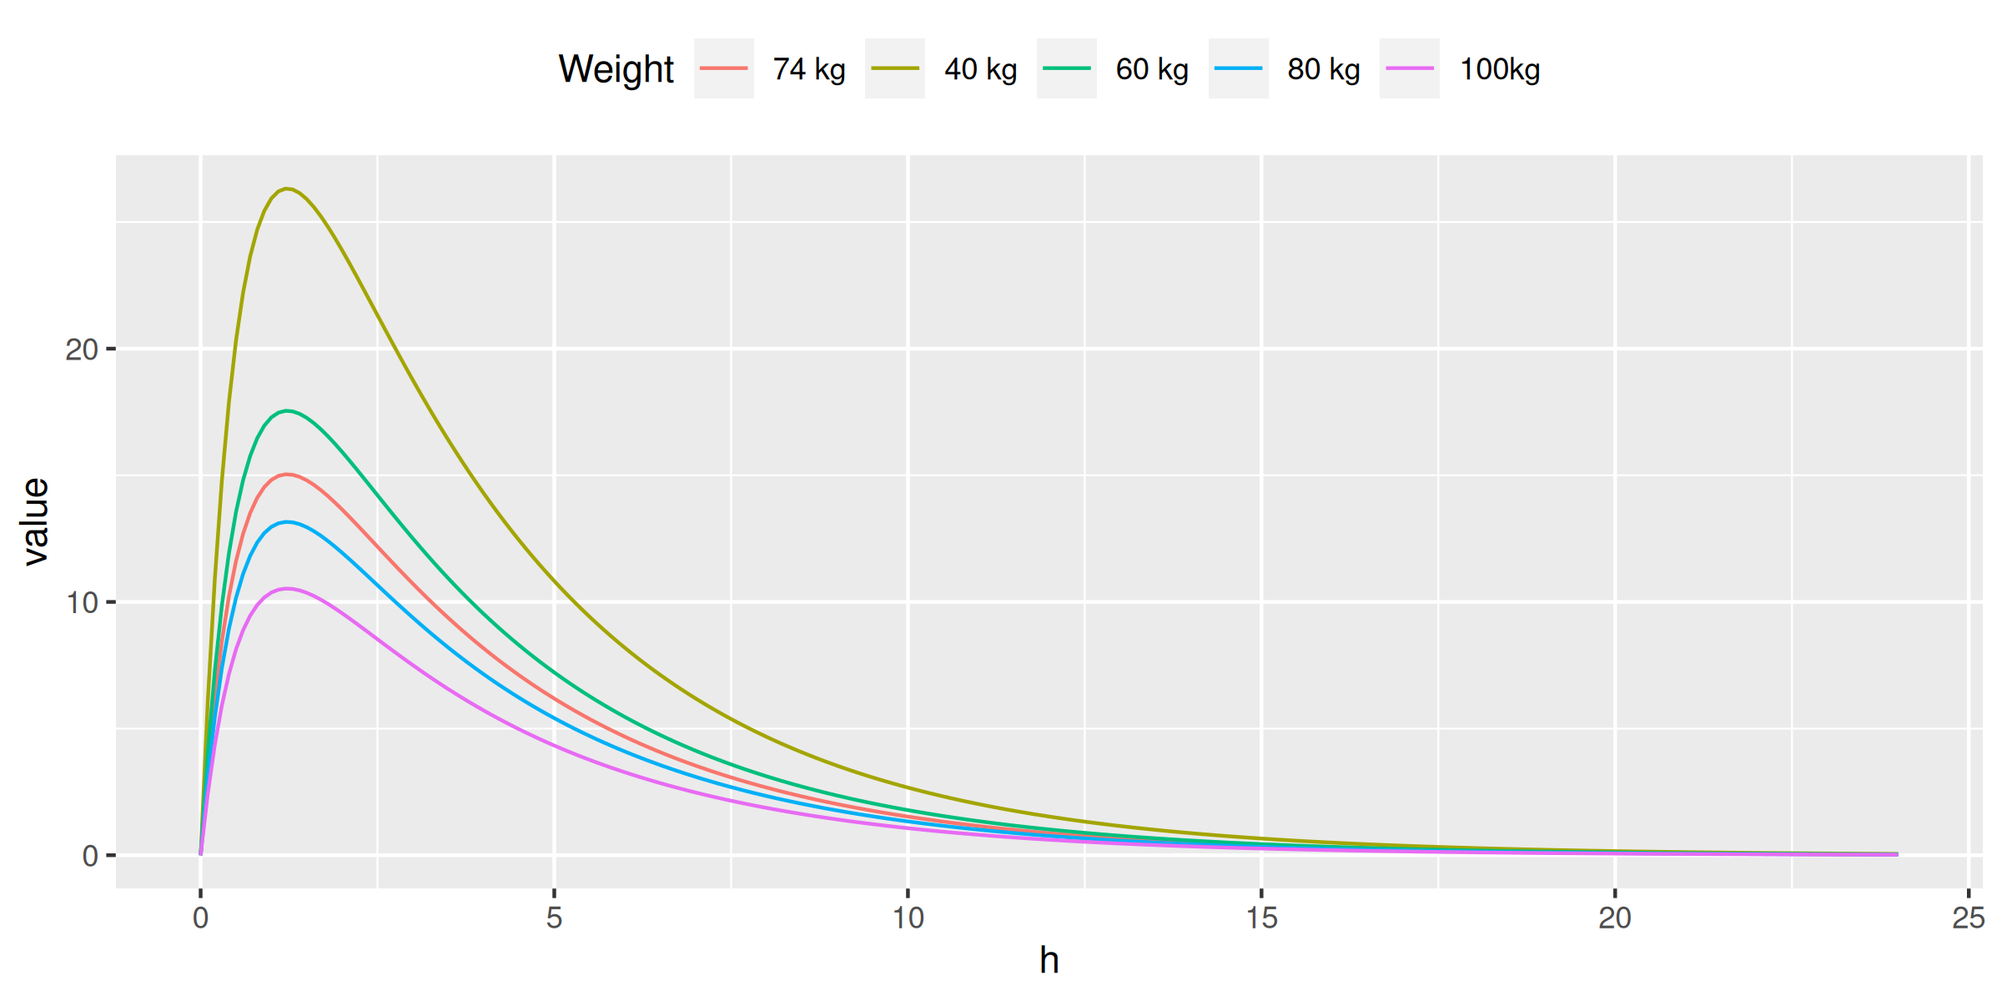
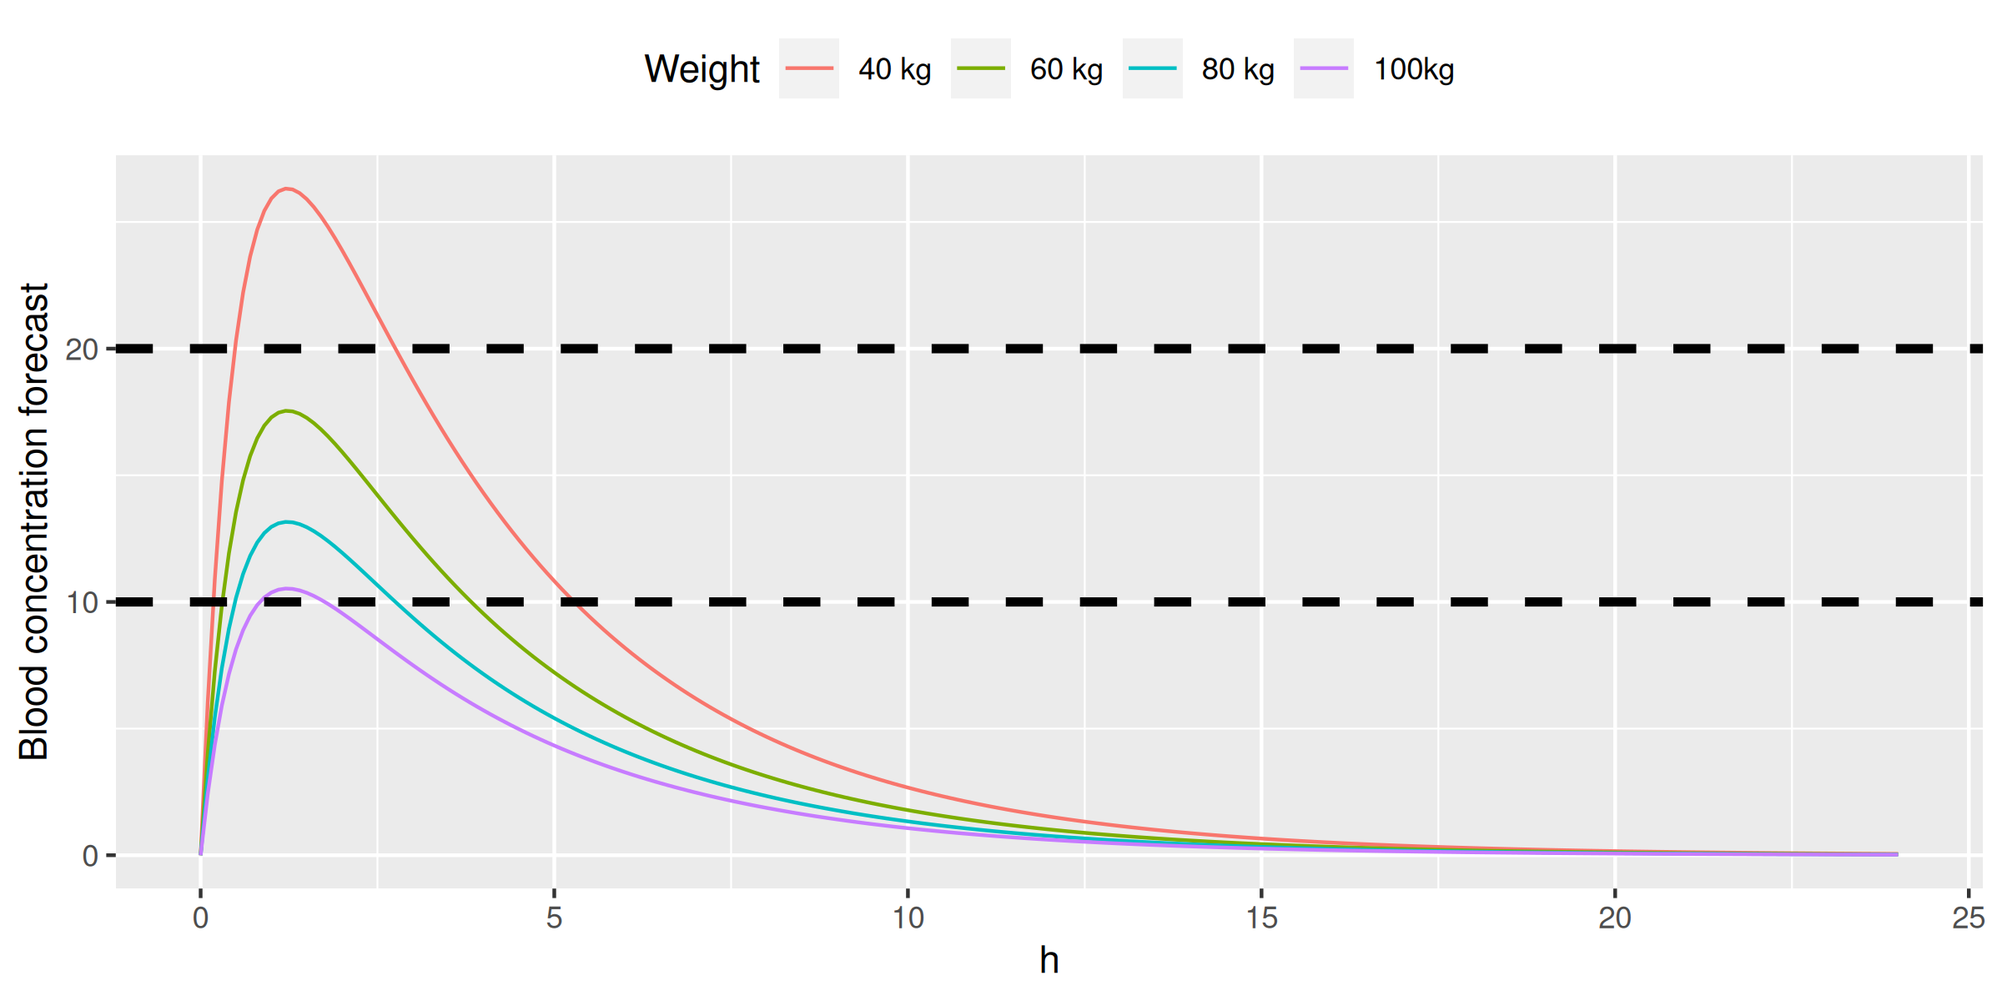
budapest ml 2023 updates

diff --git a/slides/budapestml2023-personalized-drug-doses-via-rx-studio/index.html b/slides/budapestml2023-personalized-drug-doses-via-rx-studio/index.html
@@ -544,6 +544,12 @@ Gergely Daróczi
 <h3 class="author" style="color:#333;padding-top:5%;font-size:1.1em;text-align: right !important; margin-right: -5%;padding-top: 0px;font-weight: normal;">
 Co-founder, CTO<br /> Rx Studio Inc.
 </h3>
+<aside class="notes">
+<p>precision dosing application, heavily building on R in a HIPAA
+compliant environment, and I will try to share an introduction to the
+related models and some R code as well, so that interested parties can
+get involved</p>
+</aside>
 </section>
 <section>
 <section class="titleslide slide level1" data-transition="slide-in none-out" data-background-image="img/1920x1080-white.jpg" data-background-size="100%">
@@ -605,23 +611,35 @@ understand</a></p>
 </section>
 </section>
 <section>
-<section class="titleslide slide level1">
+<section class="titleslide slide level1" data-transition="fade-in fade-out">
 <h2>
 &gt; Sys.getenv(country = ‘USA’)
 </h2>
 <p><img src="img/rx-business/drug-use-2022-usa.png" width="100%" class="noborder" /></p>
 <p>Source: The Use of Medicines in the U.S. 2023 (IQVIA)</p>
 <aside class="notes">
-<p>another area where I don’t feel home … but important to understand
-the business impact</p>
-<p>30% in clinic (so not retail) use … of which around 10% is inpatient,
-so overall 200M prescriptions were dispensed in hospitals .. with around
-7% risk for adverse reactions, each costing around $15k on average …
-this is a serious problem costing hundreds of millions per year .. not
-even counting the human and social costs.</p>
+<p>before we get to the actual life science and modeling part, I also
+wanted to highlight the importance of this topic for the business folks
+in the audience: well, there are a quite a few and increasing numbers on
+this slide, which always proves a point … but let’s just focus on one
+here:</p>
 </aside>
 </section>
 <section id="sys.getenvcountry-usa" class="slide level2"
+data-transition="fade-in none-out">
+<h2 data-transition="fade-in none-out">&gt; Sys.getenv(country =
+‘USA’)</h2>
+<p><img src="img/rx-business/drug-use-2022-usa-zoomin.png" width="70%" class="noborder" /></p>
+<aside class="notes">
+<p>there are more than 6 BILLION prescriptions per year in ht US …
+although 2/3 is in retail, and only around 3% are dispensed in hospitals
+with the highest risks for adverse reactions, there’s is a very sizeable
+risk for each of these prescriptions in the range of a few hundred to
+thousands of dollars .. overall adding up hundreds of millions per year
+.. not even counting the human and social costs.</p>
+</aside>
+</section>
+<section id="sys.getenvcountry-usa-1" class="slide level2"
 data-transition="slide-in none-out">
 <h2 data-transition="slide-in none-out">&gt; Sys.getenv(country =
 ‘USA’)</h2>
@@ -641,7 +659,7 @@ adherence etc</p>
 there is $100 - $1000 risk per prescription.</p>
 </aside>
 </section>
-<section id="sys.getenvcountry-usa-1" class="slide level2"
+<section id="sys.getenvcountry-usa-2" class="slide level2"
 data-transition="none-in slide-out">
 <h2 data-transition="none-in slide-out">&gt; Sys.getenv(country =
 ‘USA’)</h2>
@@ -662,7 +680,28 @@ data-transition="fade-in slide-out">
 <p><img src="img/rx-business/ecosystem.png" width="85%" class="noborder" /></p>
 <aside class="notes">
 <p>borrowed from a previous version of a fundraising deck from my
-cofounder -&gt; tech-enabled services</p>
+cofounder</p>
+<p>we are doing tech-enabled services to help with the related problems
+at multiple levels</p>
+<p>first: when a drug is released to the market after a series of
+clinical trials including a couple hundreds of patients data, there’s
+just not enough coverage to see how the drug will work in the remaining
+7B people’s body. this can be solved by collecting real-world evidence
+and data, to build better dosing models – what clinicians and
+researchers have been doing for decades now, and publishing their
+results</p>
+<p>we also build custom models for local or special populations as
+needed, and make all these available in our platform in the means of
+various APIs</p>
+<p>these are then used to power our primary and secondary products,
+e.g. the standalone and EHR applications for precision dosing, which
+means that clinicians are using our apps to find the optimal dose for a
+patient,</p>
+<p>but our models, data and services can also help pharma, payors with
+clinical trials and reduce cost/time-to-market, or help with the
+adherence problem and nudge/monitor patients taking drugs in the means
+of customer-facing applicaitons</p>
+<p>let me show you a quick demo to explain this better</p>
 </aside>
 </section>
 </section>
@@ -722,13 +761,19 @@ data-transition="none">
 </div>
 <p>Source: Mortensen et al (2008): Introduction to PK/PD modelling.</p>
 </section>
-<section id="vignettetopic-pkpd-models-4" class="slide level2"
+<section id="vignettetopic-pkpd-models-4" class="slide level2">
+<h2>&gt; vignette(topic = ‘PK/PD models’)</h2>
+<p><img src="img/pkpd/spherical-cow.gif" width="40%" /></p>
+<p>Source:
+<a href="https://en.wikipedia.org/wiki/Spherical_cow" target="_new">Spherical
+cow</a></p>
+</section>
+<section id="vignettetopic-pkpd-models-5" class="slide level2"
 data-transition="slide-in fade-out">
 <h2 data-transition="slide-in fade-out">&gt; vignette(topic = ‘PK/PD
 models’)</h2>
 <div class="colcontainer">
 <div class="col">
-<p><br/></p>
 <p><img src="img/pkpd/comp-1-no-k.png" width="50%" /></p>
 </div>
 <div class="col">
@@ -736,17 +781,16 @@ models’)</h2>
 </div>
 </div>
 </section>
-<section id="vignettetopic-pkpd-models-5" class="slide level2"
+<section id="vignettetopic-pkpd-models-6" class="slide level2"
 data-transition="fade-in slide-out">
 <h2 data-transition="fade-in slide-out">&gt; vignette(topic = ‘PK/PD
 models’)</h2>
 <div class="colcontainer">
 <div class="col">
-<p><br/></p>
 <p><img src="img/pkpd/comp-1-no-k.png" width="50%" /></p>
 </div>
 <div class="col">
-<p><br/><br/></p>
+<p><br/></p>
 <p><span class="math display">\[C=\frac{A}{V}\]</span></p>
 <ul>
 <li><span class="math inline">\(C\)</span> drug concentration</li>
@@ -755,14 +799,24 @@ models’)</h2>
 </ul>
 </div>
 </div>
+<div class="fragment">
+<p>Example: 500 mg Panadol (<span class="math inline">\(Vd =
+0.9L/kg\)</span>) administered for a 70 kg patient</p>
+<p><span class="math display">\[C=\frac{500mg}{70kg *
+0.9L/kg}=\frac{500mg}{63L}=7.9 mg/L\]</span></p>
+<aside class="notes">
+<p>paracetamol distributes rapidly and evenly throughout most tissues
+and fluids and has a volume of distribution of approximately 0.9L/kg</p>
+</aside>
+</div>
 </section>
-<section id="vignettetopic-pkpd-models-6" class="slide level2"
+<section id="vignettetopic-pkpd-models-7" class="slide level2"
 data-transition="slide-in fade-out">
 <h2 data-transition="slide-in fade-out">&gt; vignette(topic = ‘PK/PD
 models’)</h2>
 <p><img src="img/pkpd/comp-1-gut.png" width="25%" /></p>
 </section>
-<section id="vignettetopic-pkpd-models-7" class="slide level2"
+<section id="vignettetopic-pkpd-models-8" class="slide level2"
 data-transition="fade-in slide-out">
 <h2 data-transition="fade-in slide-out">&gt; vignette(topic = ‘PK/PD
 models’)</h2>
@@ -796,7 +850,7 @@ administration</li>
 </ul>
 </aside>
 </section>
-<section id="vignettetopic-pkpd-models-8" class="slide level2">
+<section id="vignettetopic-pkpd-models-9" class="slide level2">
 <h2>&gt; vignette(topic = ‘PK/PD models’)</h2>
 <p><img src="img/pkpd/1x1920.png" width="25%" /></p>
 <p><span
@@ -888,7 +942,7 @@ data-transition="fade-in fade-out">
 <span id="cb7-2"><a href="#cb7-2" aria-hidden="true" tabindex="-1"></a>[<span class="dv">1</span>] <span class="fl">14.81762</span></span></code></pre></div>
 </div>
 <div class="col">
-<div class="sourceCode" id="cb8"><pre class="sourceCode r"><code class="sourceCode r"><span id="cb8-1"><a href="#cb8-1" aria-hidden="true" tabindex="-1"></a><span class="sc">&gt;</span> <span class="fu">ctp</span>(<span class="at">t =</span> <span class="dv">1</span>, <span class="at">dose =</span> <span class="dv">1000</span>)</span>
+<div class="sourceCode" id="cb8"><pre class="sourceCode r"><code class="sourceCode r"><span id="cb8-1"><a href="#cb8-1" aria-hidden="true" tabindex="-1"></a><span class="sc">&gt;</span> <span class="fu">ctp</span>(<span class="at">t =</span> <span class="dv">2</span>, <span class="at">dose =</span> <span class="dv">1000</span>)</span>
 <span id="cb8-2"><a href="#cb8-2" aria-hidden="true" tabindex="-1"></a>[<span class="dv">1</span>] <span class="fl">13.64825</span></span></code></pre></div>
 </div>
 <div class="col">
@@ -919,11 +973,11 @@ data-transition="fade-in slide-out">
 <span id="cb11-2"><a href="#cb11-2" aria-hidden="true" tabindex="-1"></a>[<span class="dv">1</span>] <span class="fl">14.81762</span></span></code></pre></div>
 </div>
 <div class="col">
-<div class="sourceCode" id="cb12"><pre class="sourceCode r"><code class="sourceCode r"><span id="cb12-1"><a href="#cb12-1" aria-hidden="true" tabindex="-1"></a><span class="sc">&gt;</span> <span class="fu">ctp</span>(<span class="at">t =</span> <span class="dv">1</span>, <span class="at">dose =</span> <span class="dv">1000</span>)</span>
+<div class="sourceCode" id="cb12"><pre class="sourceCode r"><code class="sourceCode r"><span id="cb12-1"><a href="#cb12-1" aria-hidden="true" tabindex="-1"></a><span class="sc">&gt;</span> <span class="fu">ctp</span>(<span class="at">t =</span> <span class="dv">2</span>, <span class="at">dose =</span> <span class="dv">1000</span>)</span>
 <span id="cb12-2"><a href="#cb12-2" aria-hidden="true" tabindex="-1"></a>[<span class="dv">1</span>] <span class="fl">13.64825</span></span></code></pre></div>
 </div>
 <div class="col">
-<div class="sourceCode" id="cb13"><pre class="sourceCode r"><code class="sourceCode r"><span id="cb13-1"><a href="#cb13-1" aria-hidden="true" tabindex="-1"></a><span class="sc">&gt;</span> <span class="fu">ctp</span>(<span class="at">t =</span> <span class="dv">1</span>, <span class="at">dose =</span> <span class="dv">1000</span>)</span>
+<div class="sourceCode" id="cb13"><pre class="sourceCode r"><code class="sourceCode r"><span id="cb13-1"><a href="#cb13-1" aria-hidden="true" tabindex="-1"></a><span class="sc">&gt;</span> <span class="fu">ctp</span>(<span class="at">t =</span> <span class="dv">6</span>, <span class="at">dose =</span> <span class="dv">1000</span>)</span>
 <span id="cb13-2"><a href="#cb13-2" aria-hidden="true" tabindex="-1"></a>[<span class="dv">1</span>] <span class="fl">4.676354</span></span></code></pre></div>
 </div>
 </div>
@@ -947,13 +1001,25 @@ data-transition="fade-in slide-out">
 <span id="cb16-2"><a href="#cb16-2" aria-hidden="true" tabindex="-1"></a>conc[, c2 <span class="sc">:=</span> <span class="fu">ctp</span>(h, <span class="dv">1000</span>, <span class="at">weight =</span>  <span class="dv">60</span>)]</span>
 <span id="cb16-3"><a href="#cb16-3" aria-hidden="true" tabindex="-1"></a>conc[, c3 <span class="sc">:=</span> <span class="fu">ctp</span>(h, <span class="dv">1000</span>, <span class="at">weight =</span>  <span class="dv">80</span>)]</span>
 <span id="cb16-4"><a href="#cb16-4" aria-hidden="true" tabindex="-1"></a>conc[, c4 <span class="sc">:=</span> <span class="fu">ctp</span>(h, <span class="dv">1000</span>, <span class="at">weight =</span> <span class="dv">100</span>)]</span>
-<span id="cb16-5"><a href="#cb16-5" aria-hidden="true" tabindex="-1"></a><span class="fu">ggplot</span>(<span class="fu">melt</span>(conc, <span class="at">id.vars =</span> <span class="st">&#39;h&#39;</span>), <span class="fu">aes</span>(h, value, <span class="at">color =</span> variable)) <span class="sc">+</span> <span class="fu">geom_line</span>() <span class="sc">+</span></span>
-<span id="cb16-6"><a href="#cb16-6" aria-hidden="true" tabindex="-1"></a>    <span class="fu">scale_color_discrete</span>(<span class="at">name =</span> <span class="st">&#39;Weight&#39;</span>, <span class="at">labels =</span> <span class="fu">c</span>(<span class="st">&#39;74 kg&#39;</span>, <span class="st">&#39;40 kg&#39;</span>, <span class="st">&#39;60 kg&#39;</span>, <span class="st">&#39;80 kg&#39;</span>, <span class="st">&#39;100kg&#39;</span>)) <span class="sc">+</span></span>
-<span id="cb16-7"><a href="#cb16-7" aria-hidden="true" tabindex="-1"></a>    <span class="fu">theme</span>(<span class="at">legend.position =</span> <span class="st">&#39;top&#39;</span>)</span></code></pre></div>
+<span id="cb16-5"><a href="#cb16-5" aria-hidden="true" tabindex="-1"></a><span class="fu">ggplot</span>(<span class="fu">melt</span>(conc, <span class="at">id.vars =</span> <span class="st">&#39;h&#39;</span>), <span class="fu">aes</span>(h, value, <span class="at">color =</span> variable)) <span class="sc">+</span></span>
+<span id="cb16-6"><a href="#cb16-6" aria-hidden="true" tabindex="-1"></a>    <span class="fu">geom_line</span>() <span class="sc">+</span></span>
+<span id="cb16-7"><a href="#cb16-7" aria-hidden="true" tabindex="-1"></a>    <span class="fu">scale_color_discrete</span>(<span class="at">name =</span> <span class="st">&#39;Weight&#39;</span>,</span>
+<span id="cb16-8"><a href="#cb16-8" aria-hidden="true" tabindex="-1"></a>                         <span class="at">labels =</span> <span class="fu">c</span>(<span class="st">&#39;40 kg&#39;</span>, <span class="st">&#39;60 kg&#39;</span>, <span class="st">&#39;80 kg&#39;</span>, <span class="st">&#39;100kg&#39;</span>)) <span class="sc">+</span></span>
+<span id="cb16-9"><a href="#cb16-9" aria-hidden="true" tabindex="-1"></a>    <span class="fu">ylab</span>(<span class="st">&#39;Blood concentration forecast&#39;</span>) <span class="sc">+</span></span>
+<span id="cb16-10"><a href="#cb16-10" aria-hidden="true" tabindex="-1"></a>    <span class="fu">theme</span>(<span class="at">legend.position =</span> <span class="st">&#39;top&#39;</span>) <span class="sc">+</span></span>
+<span id="cb16-11"><a href="#cb16-11" aria-hidden="true" tabindex="-1"></a>    <span class="fu">geom_hline</span>(<span class="at">yintercept =</span> <span class="dv">10</span>, <span class="at">color =</span> <span class="st">&#39;black&#39;</span>, <span class="at">linetype =</span> <span class="dv">2</span>, <span class="at">size =</span> <span class="fl">1.25</span>) <span class="sc">+</span></span>
+<span id="cb16-12"><a href="#cb16-12" aria-hidden="true" tabindex="-1"></a>    <span class="fu">geom_hline</span>(<span class="at">yintercept =</span> <span class="dv">20</span>, <span class="at">color =</span> <span class="st">&#39;black&#39;</span>, <span class="at">linetype =</span> <span class="dv">2</span>, <span class="at">size =</span> <span class="fl">1.25</span>)</span></code></pre></div>
+<!-- ggsave(file = '/home/daroczig/projects/snowl.net/static/slides/budapestml2023-personalized-drug-doses-via-rx-studio/img/pkpd/paracetamol-weights.png', width = 8, height = 4) -->
 </section>
 <section id="do.callctp-weights-1" class="slide level2">
 <h2>&gt; do.call(ctp, weights)</h2>
 <p><img src="img/pkpd/paracetamol-weights.png" width="100%" /></p>
+<aside class="notes">
+<p>so far, we have been administering the same dose to very different
+patients, which doesn’t make a lot of sense (other than running
+simulations) .. so let’s take a look at a real-life example with actual
+body weights and drug doses</p>
+</aside>
 </section>
 <section id="do.callctp-family" class="slide level2">
 <h2>&gt; do.call(ctp, family)</h2>
@@ -965,7 +1031,7 @@ data-transition="fade-in slide-out">
 <li>HD (64 kg female): 1 pill of Panadol (500 mg)</li>
 <li>BD (41 kg male): 1 pill of Panadol (500 mg)</li>
 <li>BD (23 kg female): half pill of Panadol (250 mg)</li>
-<li>BD (13 kg female): <del>7-8</del>5ml Panadol bady (120 mg)</li>
+<li>BD (13 kg female): <del>7-8</del>5ml Panadol baby (120 mg)</li>
 </ul>
 <div class="fragment">
 <div style="text-align:left;">
@@ -980,9 +1046,9 @@ data-transition="fade-in slide-out">
 </section>
 <section id="do.callctp-family-1" class="slide level2">
 <h2>&gt; do.call(ctp, family)</h2>
-<div class="sourceCode" id="cb17"><pre class="sourceCode r"><code class="sourceCode r"><span id="cb17-1"><a href="#cb17-1" aria-hidden="true" tabindex="-1"></a>conc[, c1 <span class="sc">:=</span> <span class="fu">ctp</span>(h, <span class="dv">500</span>, <span class="at">weight =</span>  <span class="dv">96</span>)]</span>
-<span id="cb17-2"><a href="#cb17-2" aria-hidden="true" tabindex="-1"></a>conc[, c2 <span class="sc">:=</span> <span class="fu">ctp</span>(h, <span class="dv">500</span>, <span class="at">weight =</span>  <span class="dv">64</span>)]</span>
-<span id="cb17-3"><a href="#cb17-3" aria-hidden="true" tabindex="-1"></a>conc[, c3 <span class="sc">:=</span> <span class="fu">ctp</span>(h, <span class="dv">500</span>, <span class="at">weight =</span>  <span class="dv">41</span>)]</span>
+<div class="sourceCode" id="cb17"><pre class="sourceCode r"><code class="sourceCode r"><span id="cb17-1"><a href="#cb17-1" aria-hidden="true" tabindex="-1"></a>conc[, c1 <span class="sc">:=</span> <span class="fu">ctp</span>(h, <span class="dv">500</span>, <span class="at">weight =</span> <span class="dv">96</span>)]</span>
+<span id="cb17-2"><a href="#cb17-2" aria-hidden="true" tabindex="-1"></a>conc[, c2 <span class="sc">:=</span> <span class="fu">ctp</span>(h, <span class="dv">500</span>, <span class="at">weight =</span> <span class="dv">64</span>)]</span>
+<span id="cb17-3"><a href="#cb17-3" aria-hidden="true" tabindex="-1"></a>conc[, c3 <span class="sc">:=</span> <span class="fu">ctp</span>(h, <span class="dv">500</span>, <span class="at">weight =</span> <span class="dv">41</span>)]</span>
 <span id="cb17-4"><a href="#cb17-4" aria-hidden="true" tabindex="-1"></a>conc[, c4 <span class="sc">:=</span> <span class="fu">ctp</span>(h, <span class="dv">250</span>, <span class="at">weight =</span> <span class="dv">23</span>)]</span>
 <span id="cb17-5"><a href="#cb17-5" aria-hidden="true" tabindex="-1"></a>conc[, c5 <span class="sc">:=</span> <span class="fu">ctp</span>(h, <span class="dv">120</span>, <span class="at">weight =</span> <span class="dv">13</span>)]</span>
 <span id="cb17-6"><a href="#cb17-6" aria-hidden="true" tabindex="-1"></a><span class="fu">ggplot</span>(<span class="fu">melt</span>(conc, <span class="at">id.vars =</span> <span class="st">&#39;h&#39;</span>), <span class="fu">aes</span>(h, value, <span class="at">color =</span> variable)) <span class="sc">+</span> <span class="fu">geom_line</span>() <span class="sc">+</span></span>
@@ -1143,11 +1209,67 @@ rlnorm(2000)))</h2>
 </section>
 <section id="fitctp-data.frameconc-5-1" class="slide level2">
 <h2>&gt; fit(ctp, data.frame(conc = 5))</h2>
-<p><img src="img/pkpd/paracetamol-bay.png" width="100%" /></p>
+<div class="colcontainer">
+<div class="col">
+<div class="sourceCode" id="cb24"><pre class="sourceCode r"><code class="sourceCode r"><span id="cb24-1"><a href="#cb24-1" aria-hidden="true" tabindex="-1"></a><span class="sc">&gt;</span> <span class="fl">0.60</span> <span class="sc">*</span> <span class="dv">70</span></span>
+<span id="cb24-2"><a href="#cb24-2" aria-hidden="true" tabindex="-1"></a>[<span class="dv">1</span>] <span class="dv">42</span></span></code></pre></div>
+</div>
+<div class="col">
+<div class="sourceCode" id="cb25"><pre class="sourceCode r"><code class="sourceCode r"><span id="cb25-1"><a href="#cb25-1" aria-hidden="true" tabindex="-1"></a><span class="sc">&gt;</span> bay<span class="sc">$</span>par[[<span class="st">&#39;v&#39;</span>]]</span>
+<span id="cb25-2"><a href="#cb25-2" aria-hidden="true" tabindex="-1"></a>[<span class="dv">1</span>] <span class="fl">51.954</span></span></code></pre></div>
+</div>
+</div>
+<div class="fragment">
+<p><img src="img/pkpd/paracetamol-bay.png" width="80%" style="margin-top:-25px;" /></p>
+</div>
 </section>
 <section id="fitctp-data.frameconc-5-2" class="slide level2">
 <h2>&gt; fit(ctp, data.frame(conc = 5))</h2>
+<p><img src="img/rx-examples/pk-table-popup.png" width="60%" /></p>
+</section>
+<section id="fitctp-data.frameconc-5-3" class="slide level2">
+<h2>&gt; fit(ctp, data.frame(conc = 5))</h2>
 <p><img src="img/rx-examples/chinese.png" width="100%" /></p>
+</section>
+</section>
+<section data-transition="none" data-transition="fade">
+<section class="titleslide slide level1" data-transition="none">
+<h2>
+&gt; library(chatgpt)
+</h2>
+</section>
+<section id="librarychatgpt" class="slide level2"
+data-transition="fade-in slide-out">
+<h2 data-transition="fade-in slide-out">&gt; library(chatgpt)</h2>
+<p><img src="img/ai/google-distance-from-nuclear-explosion-tw.jpg" width="55%" /></p>
+<aside class="notes">
+<p>ready.gov is a site of the U.S. Department of Homeland Security</p>
+</aside>
+</section>
+<section id="librarychatgpt-1" class="slide level2"
+data-transition="slide-in fade-out">
+<h2 data-transition="slide-in fade-out">&gt; library(chatgpt)</h2>
+<p><img src="img/ai/chatgpt-distance-from-nuclear-explosion.png" width="95%" /></p>
+</section>
+<section id="librarychatgpt-2" class="slide level2"
+data-transition="fade-in slide-out">
+<h2 data-transition="fade-in slide-out">&gt; library(chatgpt)</h2>
+<p><img src="img/ai/chatgpt-distance-from-nuclear-explosion-highlight.png" width="95%" /></p>
+</section>
+<section id="librarychatgpt-3" class="slide level2"
+data-transition="fade-in slide-out">
+<h2 data-transition="fade-in slide-out">&gt; library(chatgpt)</h2>
+<p><img src="img/ai/chatgpt-plugin.png" width="94%" /></p>
+</section>
+<section id="librarychatgpt-4" class="slide level2"
+data-transition="fade-in slide-out">
+<h2 data-transition="fade-in slide-out">&gt; library(chatgpt)</h2>
+<p><img src="img/ai/chatgpt-dosing.png" width="94%" /></p>
+</section>
+<section id="librarychatgpt-5" class="slide level2"
+data-transition="fade-in slide-out">
+<h2 data-transition="fade-in slide-out">&gt; library(chatgpt)</h2>
+<p><img src="img/ai/chatgpt-extract-highlighted.png" width="50%" /></p>
 <p>placeholder as cannot finish with an image</p>
 </section>
 </section>
